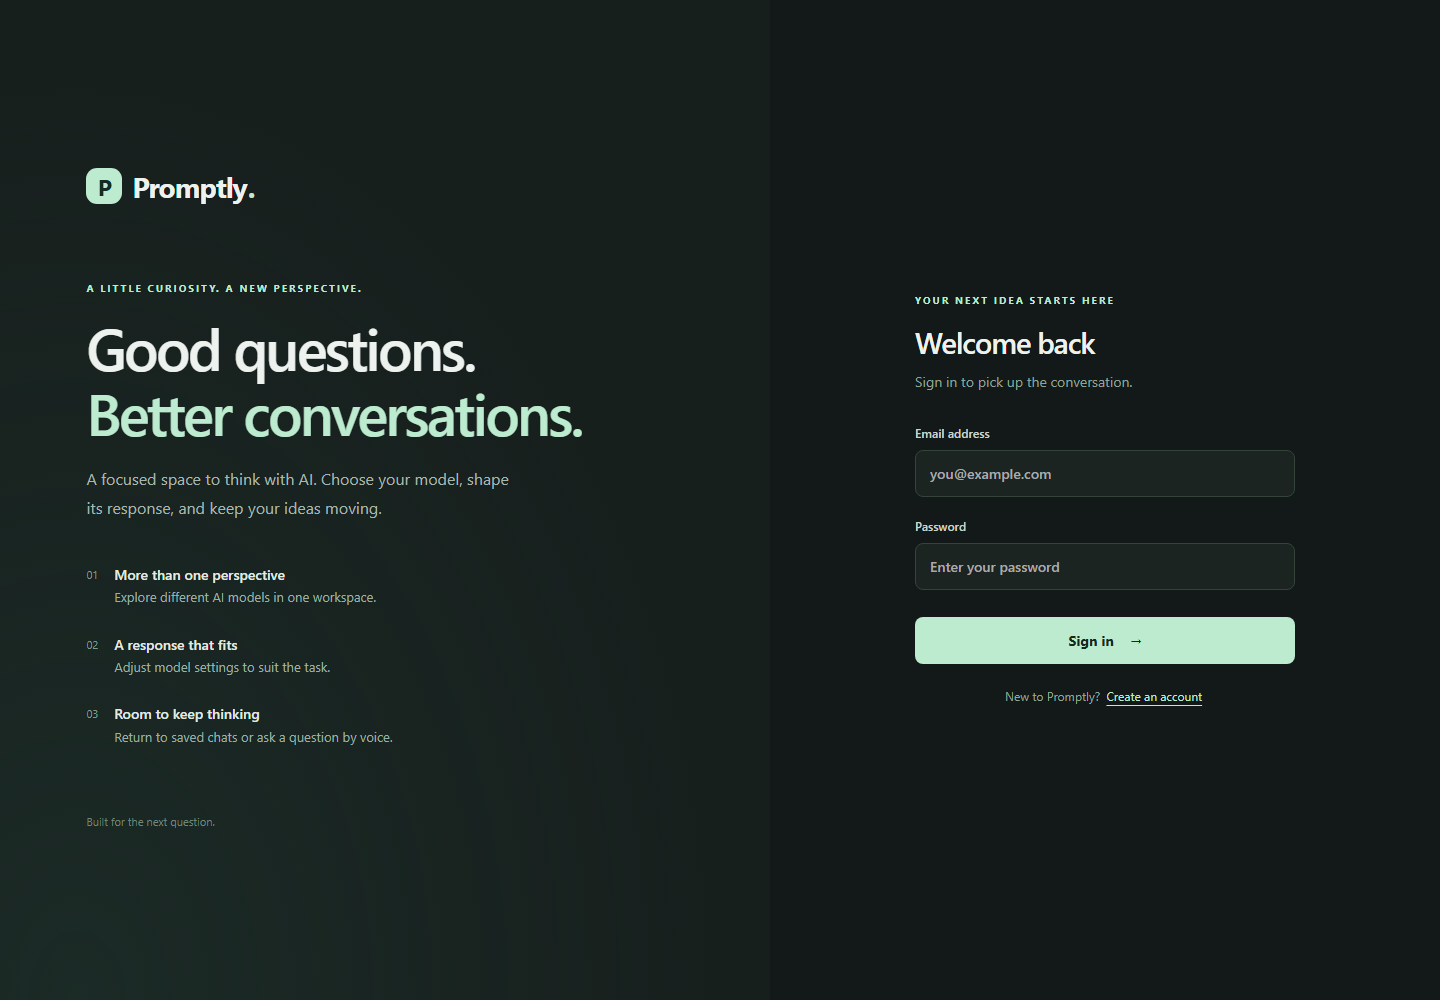
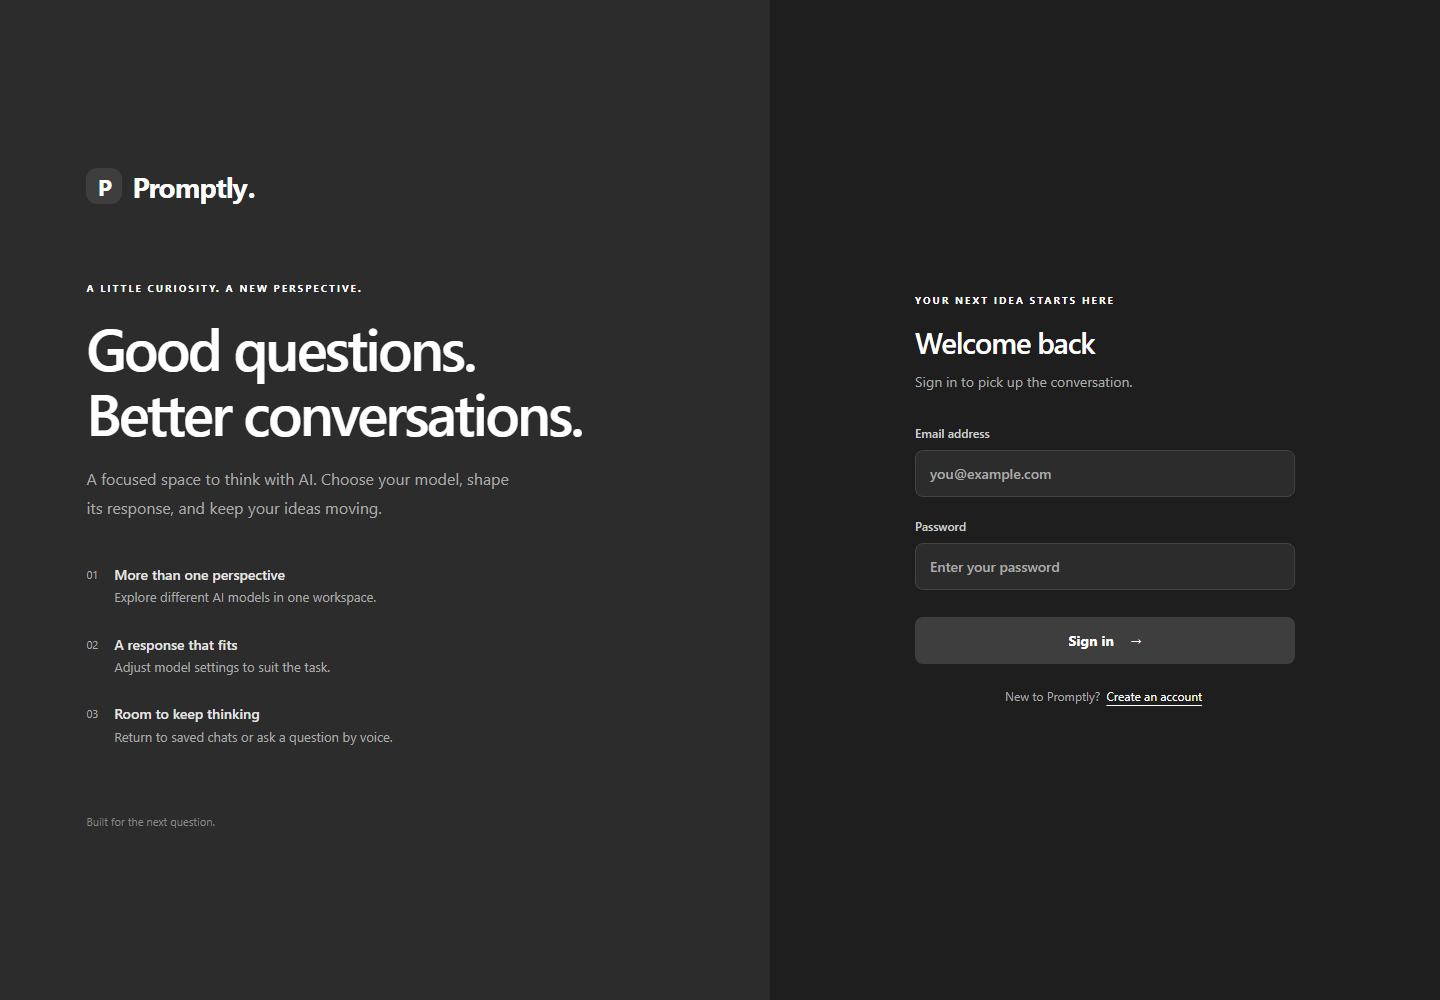
Restore original colors

diff --git a/src/assets/frontend/FullStyle.css b/src/assets/frontend/FullStyle.css
@@ -523,47 +523,47 @@ footer {
 /* Product layout: panels stay within the viewport on desktop and mobile. */
 :root { color-scheme: dark; }
 button, input, textarea, select { font-family: inherit; }
-button:focus-visible, a:focus-visible, select:focus-visible, textarea:focus-visible { outline: 2px solid #bcebcf; outline-offset: 4px; }
+button:focus-visible, a:focus-visible, select:focus-visible, textarea:focus-visible { outline: 2px solid #ccc; outline-offset: 4px; }
 button:disabled { opacity: .55; cursor: not-allowed; }
-.workspace { background: #171c1a; height: 100dvh; overflow: hidden; padding: 80px 24px 125px; }
-.workspace header { background: #171f1d; border-color: #34433a; height: 72px; padding: 12px 24px; }
-.workspace header button { background: #26362d; border-radius: 9px; min-height: 42px; }
-.workspace header img.profile { width: 32px; height: 32px; border: 1px solid #759784; }
+.workspace { background: #1e1e1e; height: 100dvh; overflow: hidden; padding: 80px 24px 125px; }
+.workspace header { background: #1e1e1e; border-color: #3b3b3b; height: 72px; padding: 12px 24px; }
+.workspace header button { background: #2c2c2c; border-radius: 9px; min-height: 42px; }
+.workspace header img.profile { width: 32px; height: 32px; border: 1px solid #fff; }
 .workspace .header-left { font-size: 22px; letter-spacing: -.7px; }
 .workspace .chat-scroll { min-height: 0; padding: 16px 0 24px; }
 .workspace.sidebar-open .chat-scroll { margin-left: 250px; }
 .workspace #chat { margin: 0 auto; width: 100%; max-width: 850px; padding: 16px; }
-.workspace .sidebar { top: 72px; height: calc(100dvh - 72px); background: #1c2620; border-right: 1px solid #34433a; box-shadow: none; padding: 20px 14px; }
-.workspace .new_delete-chat-button { background: #29392f; border: 1px solid #3d5245; border-radius: 8px; }
+.workspace .sidebar { top: 72px; height: calc(100dvh - 72px); background: #2c2c2c; border-right: 1px solid #3b3b3b; box-shadow: none; padding: 20px 14px; }
+.workspace .new_delete-chat-button { background: #3e3e3e; border: 1px solid #444; border-radius: 8px; }
 .workspace .chat-button { background: transparent; border-radius: 8px; }
-.workspace .chat-button:hover { background: #29392f; }
-.workspace footer { background: #171c1a; border: none; bottom: 0; min-height: 100px; padding: 14px 24px 24px; }
+.workspace .chat-button:hover { background: #3e3e3e; }
+.workspace footer { background: #1e1e1e; border: none; bottom: 0; min-height: 100px; padding: 14px 24px 24px; }
 .workspace.sidebar-open footer { left: 250px; }
-.workspace .message { background: #222d26; border: 1px solid #35483b; box-shadow: none; text-align: left; }
-.workspace .message.assistant { background: #1b241f; border-left: 3px solid #bcebcf; }
-.workspace .message h4 { color: #bcebcf; font-size: 11px; letter-spacing: 1px; text-transform: uppercase; }
+.workspace .message { background: #2c2c2c; border: 1px solid #3e3e3e; box-shadow: none; text-align: left; }
+.workspace .message.assistant { background: #3a3a3a; border-left: 3px solid #00c77f; }
+.workspace .message h4 { color: #aaa; font-size: 11px; letter-spacing: 1px; text-transform: uppercase; }
 .workspace .message p { margin: 8px 0; }
-.workspace .message pre { overflow-x: auto; padding: 16px; background: #101a14; border-radius: 8px; white-space: pre; }
+.workspace .message pre { overflow-x: auto; padding: 16px; background: #1e1e1e; border-radius: 8px; white-space: pre; }
 .workspace .message code { font-size: .88em; }
-.workspace .models-nav { top: 72px; width: min(410px, 100vw); height: calc(100dvh - 72px); max-height: none; background: #1f2b23; padding: 24px; z-index: 1100; box-shadow: -8px 0 32px #0005; }
-.workspace .models-nav h3 { font-size: 16px; color: #d4e9db; }
-.workspace .models-nav p { color: #b0c3b7; line-height: 1.7; font-size: 13px; }
-.workspace .apply-btn, .primary-action { background: #bcebcf; color: #182b22; border: 0; padding: 13px 20px; border-radius: 8px; font-weight: 650; cursor: pointer; }
-.workspace input[type=range] { accent-color: #bcebcf; }
+.workspace .models-nav { top: 72px; width: min(410px, 100vw); height: calc(100dvh - 72px); max-height: none; background: #2c2c2c; padding: 24px; z-index: 1100; box-shadow: -8px 0 32px #0005; }
+.workspace .models-nav h3 { font-size: 16px; color: #fff; }
+.workspace .models-nav p { color: #ccc; line-height: 1.7; font-size: 13px; }
+.workspace .apply-btn, .primary-action { background: #444; color: #fff; border: 0; padding: 13px 20px; border-radius: 8px; font-weight: 650; cursor: pointer; }
+.workspace input[type=range] { accent-color: #aaa; }
 .welcome-state { margin: clamp(24px, 10vh, 100px) auto 0; max-width: 700px; }
 .welcome-state h1 { font-size: clamp(28px, 3.5vw, 42px); letter-spacing: -1.4px; font-weight: 550; margin: 18px 0; line-height: 1.2; }
-.welcome-state > p { color: #9eb6a6 !important; font-size: 15px; }
+.welcome-state > p { color: #aaa !important; font-size: 15px; }
 .welcome-state .primary-action { margin-top: 24px; }
 .welcome-features { display: grid; grid-template-columns: repeat(3, 1fr); gap: 12px; margin-top: 56px; text-align: left; }
-.welcome-features > div { border: 1px solid #35483b; padding: 18px; border-radius: 10px; }
-.welcome-features strong { color: #d8e9de; display: block; font-size: 12px; margin-bottom: 8px; }
-.welcome-features span { color: #91a799; font-size: 12px; line-height: 1.7; }
-.profile-dropdown { background: #26372c; border-color: #4b6555; }
-.profile-dropdown button { width: 100%; padding: 10px 16px; background: none; border: 0; color: #d8e9de; text-align: left; cursor: pointer; }
-.profile-dropdown button:hover { background: #34483c; }
-.modal-box { width: min(460px, calc(100vw - 32px)); min-width: 0; background: #1e2c23; border: 1px solid #405b49; }
+.welcome-features > div { border: 1px solid #3e3e3e; padding: 18px; border-radius: 10px; }
+.welcome-features strong { color: #e4e4e4; display: block; font-size: 12px; margin-bottom: 8px; }
+.welcome-features span { color: #aaa; font-size: 12px; line-height: 1.7; }
+.profile-dropdown { background: #3b3b3b; border-color: #555; }
+.profile-dropdown button { width: 100%; padding: 10px 16px; background: none; border: 0; color: #e4e4e4; text-align: left; cursor: pointer; }
+.profile-dropdown button:hover { background: #4d4d4d; }
+.modal-box { width: min(460px, calc(100vw - 32px)); min-width: 0; background: #1e1e1e; border: 1px solid #444; }
 .modal-actions { display: flex; gap: 12px; justify-content: flex-end; }
-.modal-box .modal-cancel { background: transparent; color: #c5d9cc; border: 1px solid #486050; }
+.modal-box .modal-cancel { background: transparent; color: #ccc; border: 1px solid #555; }
 .profile-container, .settings-container { width: min(500px, calc(100vw - 32px)); }
 @media (max-width: 899px) {
   .workspace.sidebar-open .chat-scroll { margin-left: 0; }

diff --git a/src/assets/frontend/sign-in-up-style.css b/src/assets/frontend/sign-in-up-style.css
@@ -1,32 +1,32 @@
-.auth-container { min-height: 100dvh; display: grid; grid-template-columns: 1.15fr 1fr; background: #131818; color: #edf2ef; overflow-y: auto; height: 100dvh; }
-.auth-story { padding: 52px clamp(32px, 6vw, 104px); background: radial-gradient(ellipse at 10% 100%, #23413855, transparent 65%), #171f1d; display: flex; flex-direction: column; justify-content: center; }
-.wordmark { color: #edf2ef; text-decoration: none; font-size: 28px; font-weight: 750; display: flex; align-items: center; gap: 10px; margin-bottom: 76px; letter-spacing: -1px; }
-.brand-mark { display: inline-grid; place-items: center; background: #bcebcf; color: #182b22; width: 36px; height: 36px; border-radius: 11px; font-size: 23px; }
-.brand-dot { color: #bcebcf; margin-left: -9px; }
-.eyebrow { font-size: 10px; letter-spacing: 2px; color: #bcebcf; font-weight: 650; }
+.auth-container { min-height: 100dvh; display: grid; grid-template-columns: 1.15fr 1fr; background: #1e1e1e; color: #fff; overflow-y: auto; height: 100dvh; }
+.auth-story { padding: 52px clamp(32px, 6vw, 104px); background: #2c2c2c; display: flex; flex-direction: column; justify-content: center; }
+.wordmark { color: #fff; text-decoration: none; font-size: 28px; font-weight: 750; display: flex; align-items: center; gap: 10px; margin-bottom: 76px; letter-spacing: -1px; }
+.brand-mark { display: inline-grid; place-items: center; background: #3e3e3e; color: #fff; width: 36px; height: 36px; border-radius: 11px; font-size: 23px; }
+.brand-dot { color: #fff; margin-left: -9px; }
+.eyebrow { font-size: 10px; letter-spacing: 2px; color: #fff; font-weight: 650; }
 .auth-story h1 { font-size: clamp(36px, 4vw, 62px); font-weight: 600; letter-spacing: -2.5px; line-height: 1.13; margin: 20px 0; }
-.auth-story h1 span { color: #bcebcf; }
-.auth-story > p { color: #a7b7ae; font-size: 16px; line-height: 1.8; max-width: 430px; }
+.auth-story h1 span { color: #fff; }
+.auth-story > p { color: #aaa; font-size: 16px; line-height: 1.8; max-width: 430px; }
 .auth-feature-list { display: grid; gap: 24px; margin-top: 40px; }
 .auth-feature-list > div { display: flex; align-items: flex-start; gap: 16px; }
-.auth-feature-list > div > span { color: #7f9d8b; font-size: 11px; padding-top: 4px; }
-.auth-feature-list p { color: #9cafa3; font-size: 13px; line-height: 1.7; }
-.auth-feature-list strong { display: block; color: #e1ebe4; font-size: 14px; font-weight: 550; }
-.auth-story .auth-footnote { margin-top: 64px; font-size: 11px; color: #71867a; }
+.auth-feature-list > div > span { color: #aaa; font-size: 11px; padding-top: 4px; }
+.auth-feature-list p { color: #aaa; font-size: 13px; line-height: 1.7; }
+.auth-feature-list strong { display: block; color: #e4e4e4; font-size: 14px; font-weight: 550; }
+.auth-story .auth-footnote { margin-top: 64px; font-size: 11px; color: #888; }
 .auth-card-wrap { display: grid; place-items: center; padding: 48px 30px; }
 .auth-form { width: 100%; max-width: 380px; display: flex; flex-direction: column; gap: 21px; }
 .auth-form h2 { font-size: 29px; font-weight: 550; letter-spacing: -1px; margin-top: -5px; }
-.auth-description { font-size: 14px; color: #8fa298; line-height: 1.65; margin-top: -12px; margin-bottom: 10px; }
-.auth-form label { display: grid; gap: 9px; font-size: 12px; font-weight: 500; color: #c8d5cd; }
-.auth-form input { width: 100%; color: #edf2ef; background: #1b2420; border: 1px solid #34443a; padding: 13px 14px; border-radius: 8px; font: inherit; font-size: 14px; }
-.auth-form input:focus-visible { outline: 2px solid #bcebcf; outline-offset: 2px; }
-.auth-button { background: #bcebcf; border: 0; border-radius: 8px; padding: 14px; color: #17281e; font: inherit; font-size: 14px; font-weight: 650; cursor: pointer; display: flex; justify-content: center; gap: 16px; margin-top: 6px; }
-.auth-button:hover { background: #d0f4df; }
+.auth-description { font-size: 14px; color: #aaa; line-height: 1.65; margin-top: -12px; margin-bottom: 10px; }
+.auth-form label { display: grid; gap: 9px; font-size: 12px; font-weight: 500; color: #ccc; }
+.auth-form input { width: 100%; color: #fff; background: #2c2c2c; border: 1px solid #444; padding: 13px 14px; border-radius: 8px; font: inherit; font-size: 14px; }
+.auth-form input:focus-visible { outline: 2px solid #fff; outline-offset: 2px; }
+.auth-button { background: #3e3e3e; border: 0; border-radius: 8px; padding: 14px; color: #fff; font: inherit; font-size: 14px; font-weight: 650; cursor: pointer; display: flex; justify-content: center; gap: 16px; margin-top: 6px; }
+.auth-button:hover { background: #505050; }
 .auth-button:disabled { opacity: .6; cursor: wait; }
-.toggle-text { text-align: center; font-size: 12px; color: #90a598; }
-.toggle-link { background: none; border: 0; color: #bcebcf; font: inherit; font-size: 12px; cursor: pointer; padding: 3px; text-decoration: underline; text-underline-offset: 4px; }
+.toggle-text { text-align: center; font-size: 12px; color: #aaa; }
+.toggle-link { background: none; border: 0; color: #fff; font: inherit; font-size: 12px; cursor: pointer; padding: 3px; text-decoration: underline; text-underline-offset: 4px; }
 .form-error, .form-notice { border-radius: 7px; padding: 12px; font-size: 13px; line-height: 1.5; }
 .form-error { color: #ffd1cc; background: #542c2c; }
-.form-notice { color: #d4f0df; background: #233d2e; }
+.form-notice { color: #e4e4e4; background: #2c2c2c; }
 @media (max-width: 850px) { .auth-container { grid-template-columns: 1fr; } .auth-story { padding: 28px 26px; } .wordmark { margin-bottom: 24px; } .auth-story h1 { font-size: 36px; letter-spacing: -1.5px; } .auth-story > p { font-size: 14px; } .auth-feature-list, .auth-story .auth-footnote { display: none; } .auth-card-wrap { padding: 36px 26px 50px; } }
 @media (prefers-reduced-motion: reduce) { *, *::before, *::after { animation-duration: .01ms !important; transition-duration: .01ms !important; } }

diff --git a/src/assets/frontend/components/ChatInput.css b/src/assets/frontend/components/ChatInput.css
@@ -114,5 +114,5 @@
     background-color: #d32f2f;
   }
 
-.chat-container { background: #26352b; border: 1px solid #405847; border-radius: 14px; }
+.chat-container { background: #2c2c2c; border: 1px solid #444; border-radius: 14px; }
 @media (max-width: 600px) { .chat-container { gap: 6px; padding: 10px; } .chat-textarea { padding: 5px; font-size: 16px; } .voice-buttons { gap: 4px; flex-wrap: wrap; } .voice-buttons .icon-button { font-size: 16px; padding: 6px; } .voice-display { min-width: 0; } .voice-audio { max-width: 100%; } .voice-idle { font-size: 11px; } }

diff --git a/src/assets/frontend/index.html b/src/assets/frontend/index.html
@@ -4,7 +4,7 @@
     <meta charset="UTF-8" />
     <link rel="icon" type="image/svg+xml" href="/favicon.svg" />
     <meta name="description" content="Promptly is a focused workspace for multi-model AI conversations, voice input, and customizable generation controls." />
-    <meta name="theme-color" content="#171f1d" />
+    <meta name="theme-color" content="#1e1e1e" />
     <meta name="viewport" content="width=device-width, initial-scale=1.0" />
     <title>Promptly</title>
   </head>
